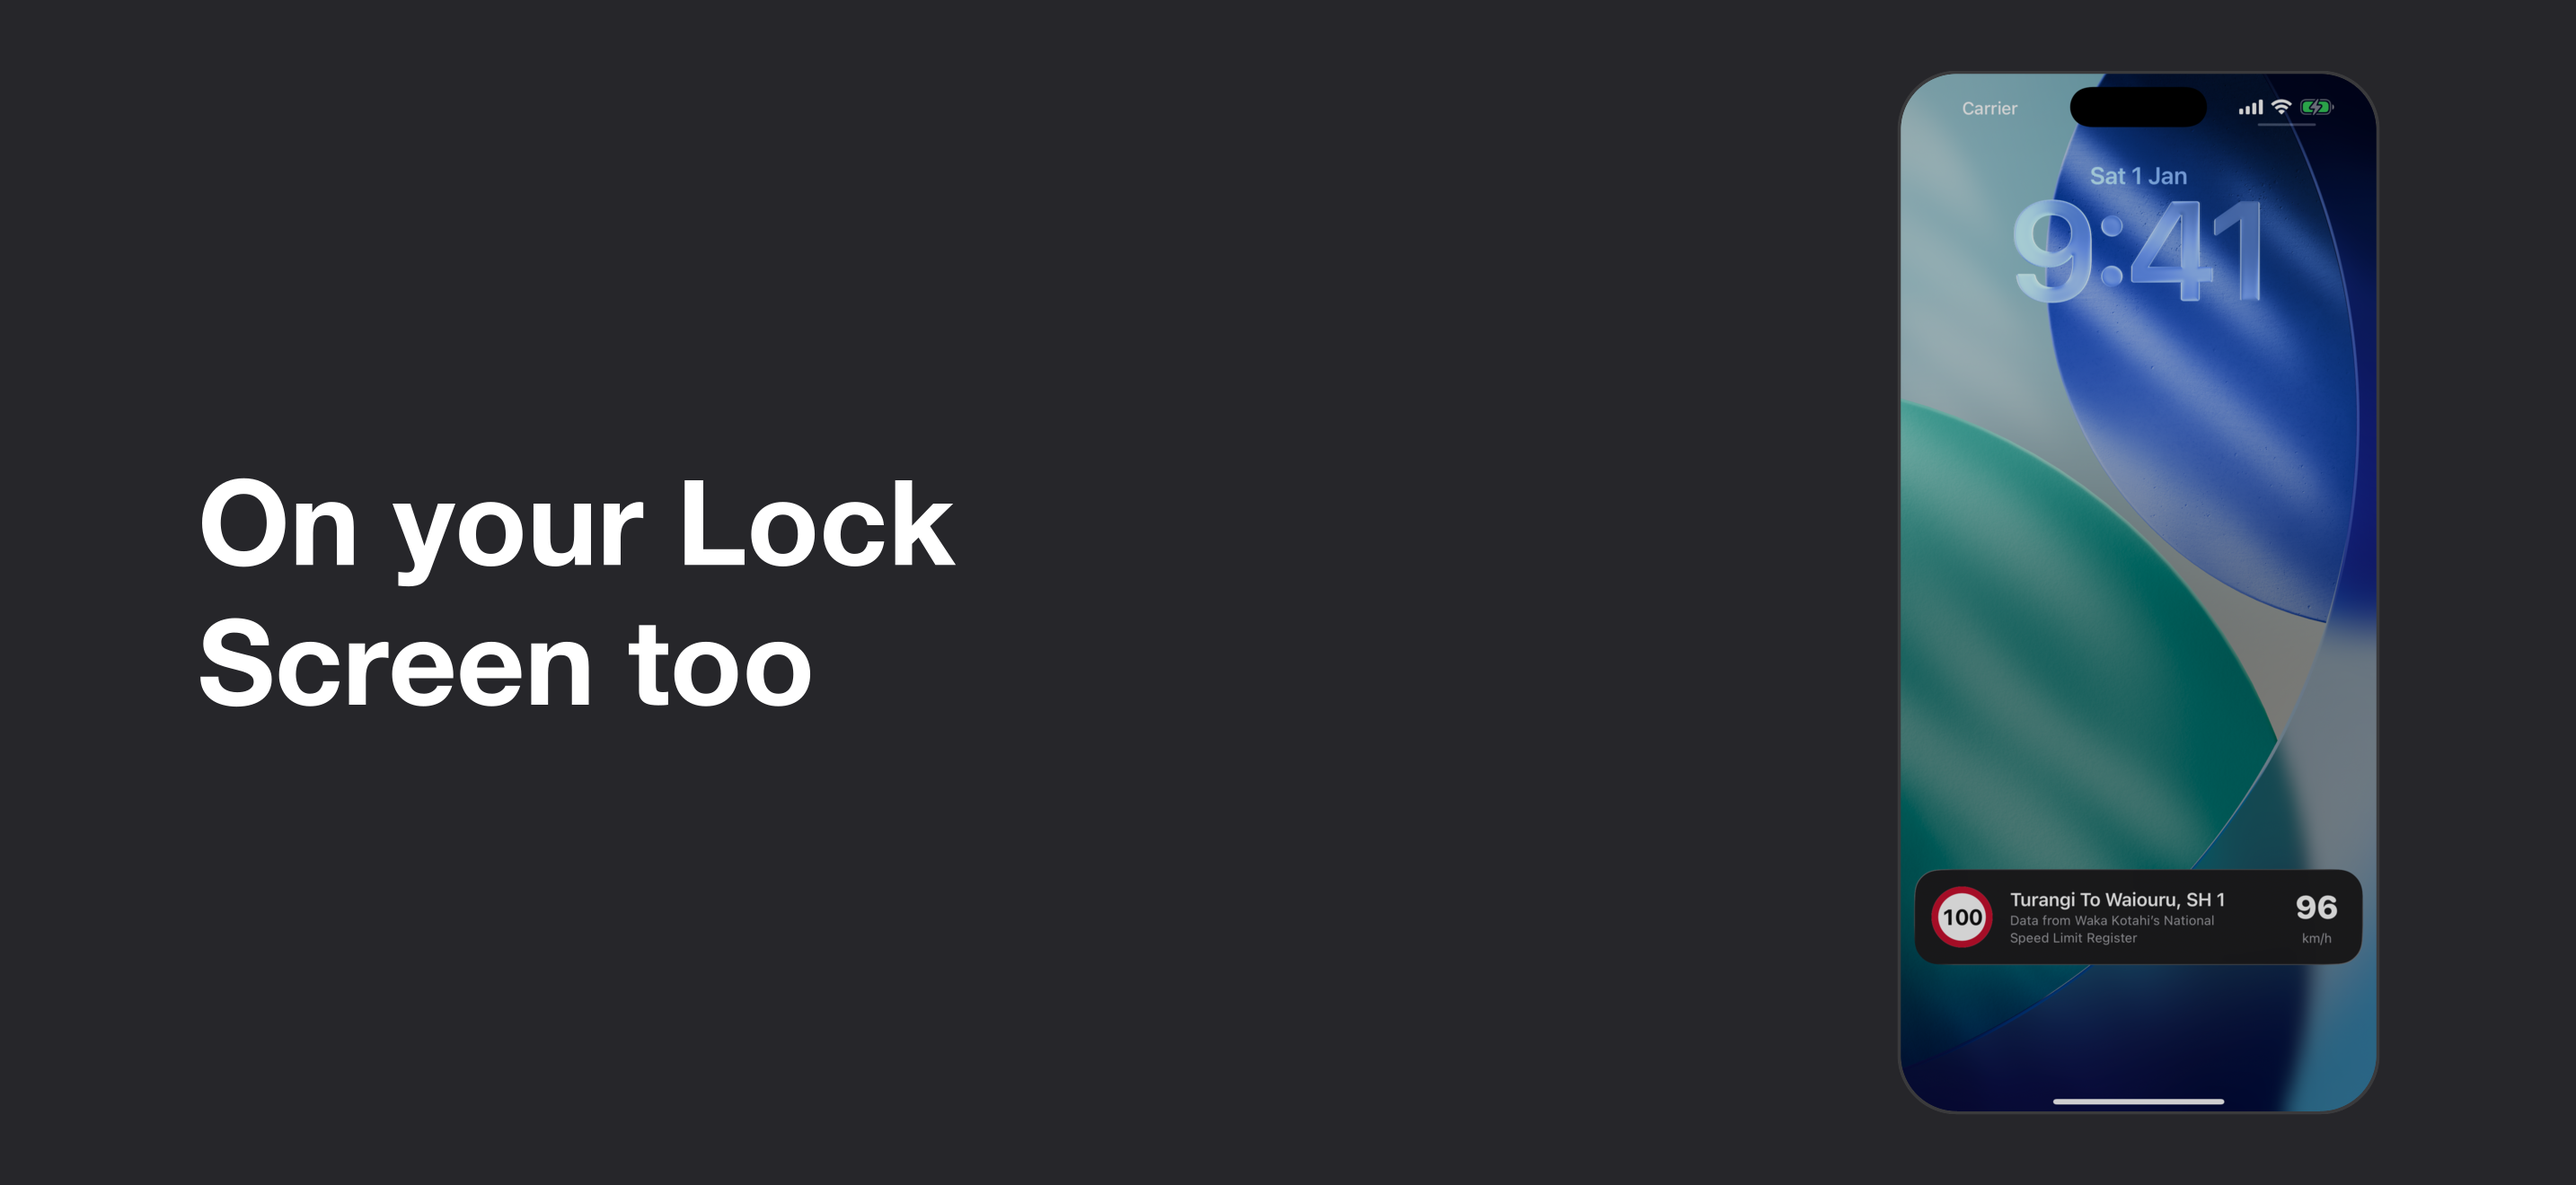
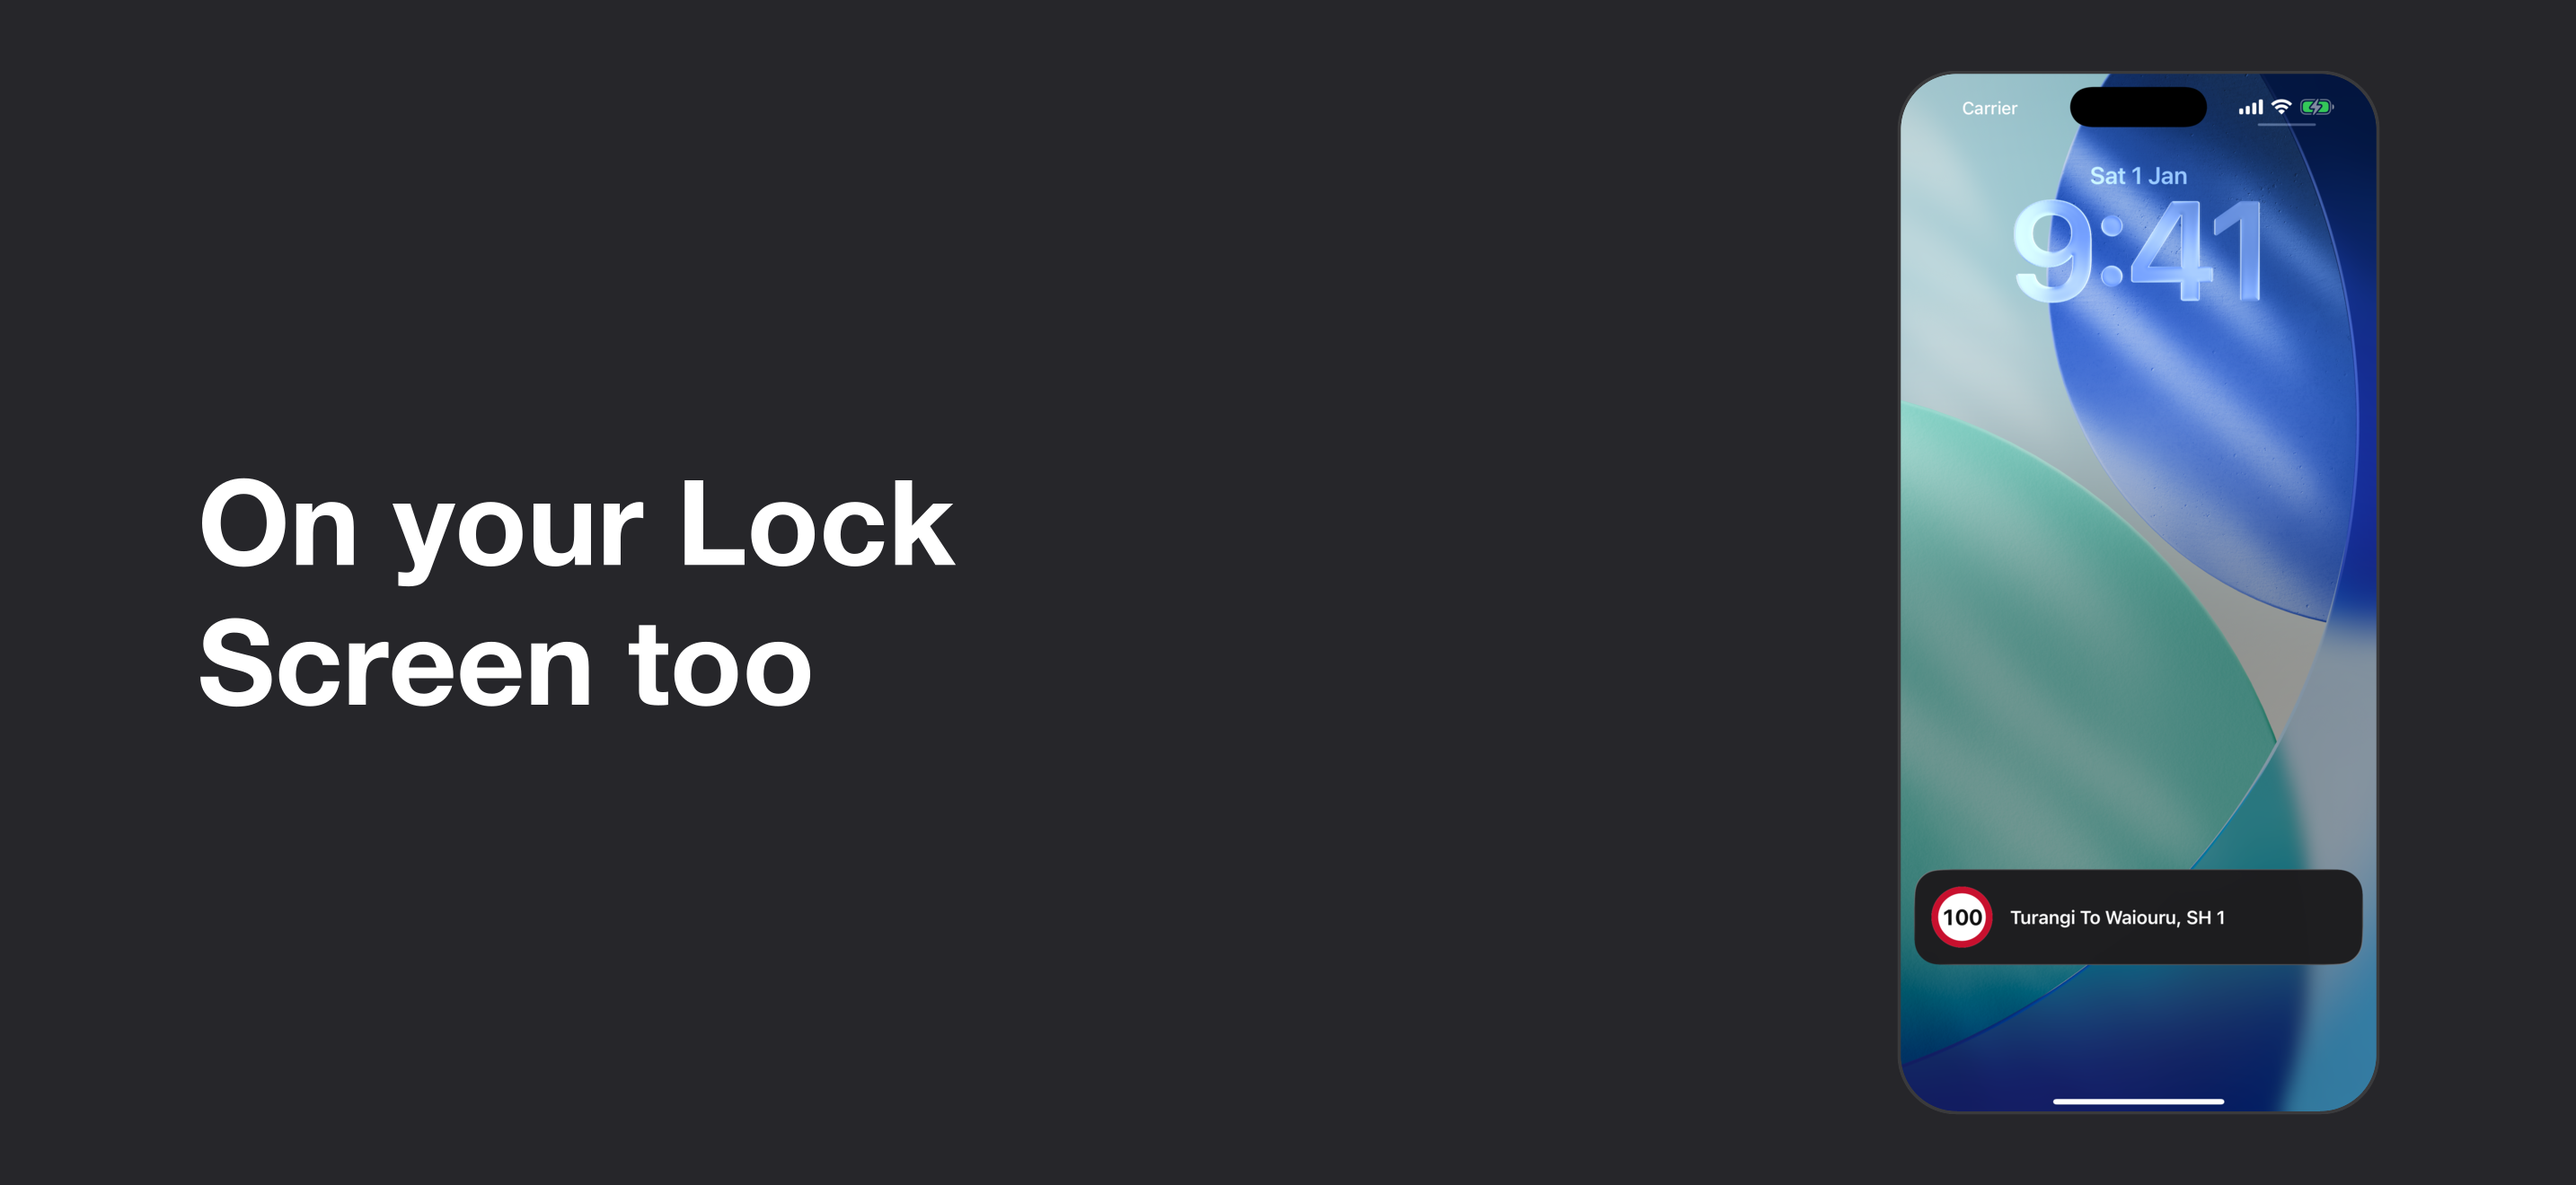
docs(ios): recapture the store screenshots
The Lock Screen card now shows the zone name, an empty circle on Horokiwi, and the seasonal line at Waipu Cove. Shots 01 to 04 and 06 stay the same scenes.

Changed region(s): [[0.7137, 0.0621, 0.931, 0.9629]]

diff --git a/iOS/AppStore/README.md b/iOS/AppStore/README.md
@@ -8,17 +8,19 @@ Raw captures for the listing, from the iOS 26.5 simulator on an iPhone 17 Pro Ma
 | `screenshots/6.9-inch/02-over-the-limit-104-in-100.png` | A realistic over-the-limit case: 104 km/h on a 100 km/h state highway (the Desert Road, SH 1), "+4 over" |
 | `screenshots/6.9-inch/03-drive-dark.png` | Dark mode, 26 km/h in the 30 zone |
 | `screenshots/6.9-inch/04-landscape-dark.png` | Landscape, 27 km/h in the 30 zone |
-| `screenshots/6.9-inch/05-lock-screen.png` | The Lock Screen Live Activity, 96 km/h on a 100 km/h state highway |
+| `screenshots/6.9-inch/05-lock-screen.png` | The Lock Screen card: the 100 sign and the zone name Turangi To Waiouru, SH 1. A permanent limit, so no second line |
+| `screenshots/6.9-inch/07-lock-screen-variable.png` | The same card on a variable limit: Horokiwi To Ngauranga, SH 2, an empty red circle, with "Variable limit, obey the posted signs" |
+| `screenshots/6.9-inch/08-lock-screen-seasonal.png` | The same card on a seasonal limit: Waipu Cove Road, 60, with "Seasonal limit, obey the posted signs". In force about late October to early April |
 | `screenshots/6.9-inch/06-welcome.png` | The first screen: what it does, offline, no account |
 
 ## Things to know
 
 - **Optics:** every shot is at or under the limit except 02, which is a small, realistic 4 km/h over. Keep it that way if you retake them.
-- **Data:** road names and limits are real, from a copy of the NZTA layer taken on 22 October 2026 while NZTA was rebuilding it, so coverage was not complete. Nothing shown is made up. Shots of the seasonal-limit label would need a made-up demo zone, so there are none here.
+- **Data:** road names and limits are real. Nothing shown is made up. The Lock Screen variable and seasonal shots use the register downloaded on 2 November 2026. Wellington Central is still 30 and Turangi To Waiouru is still 100, so the earlier drive shots stay. This copy has no emergency zone, so there is no temporary-limit shot. The seasonal shot only matches while that limit is in force, about late October to early April.
 - **Status bar:** 9:41, full signal, charging. The Lock Screen shot shows "Carrier" on the left because the simulator ignores the status bar override there.
 - **Retaking:** run `Tools/store-screenshots.sh` (needs Xcode, XcodeGen and an iPhone 17 Pro Max simulator, and downloads the register into `../data/register-check` the first time; `REFRESH=1` fetches it again). It builds the app, installs it on a clean simulator, drives simulated trips with `xcrun simctl location`, and turns the phone with a small UI test in `Tools/screenshots/rotate` because the Simulator's rotate shortcut can't be scripted. It takes a few minutes and rewrites 01 to 04 and 06.
-- **Lock Screen (05) is by hand.** `simctl` can't lock and wake the phone, so the script ends by starting the trip and printing the three steps. Keep the phone awake long enough to capture it.
-- **Framed versions:** `screenshots/6.9-inch-framed/` has the captioned slides, in `portrait/` (1320 × 2868, five slides) and `landscape/` (2868 × 1320, six). They are generated, not edited by hand: change a caption in `listing.md` and run `python3 -I Tools/frame-screenshots.py`, which needs ImageMagick, `rsvg-convert` and fontTools. The whole screen is shown, uncropped, so the register credit and "checked" line stay visible. The output is flattened RGB with no alpha, which the App Store requires.
+- **Lock Screen (05, 07, 08) is by hand.** `simctl` can't lock and wake the phone, so the script ends by starting the permanent trip and printing the routes for the variable and seasonal cards. Keep the phone awake long enough to capture each one.
+- **Framed versions:** `screenshots/6.9-inch-framed/` has the captioned slides, in `portrait/` (1320 × 2868, seven slides) and `landscape/` (2868 × 1320, eight). They are generated, not edited by hand: change a caption in `listing.md` and run `python3 -I Tools/frame-screenshots.py`, which needs ImageMagick, `rsvg-convert` and fontTools. The whole screen is shown, uncropped, so the register credit and "checked" line stay visible. The output is flattened RGB with no alpha, which the App Store requires.
 - **Not made:** an iPad set (the app is iPhone-only) and other languages.
 
 ## App Review demo video

diff --git a/iOS/AppStore/listing.md b/iOS/AppStore/listing.md
@@ -56,8 +56,8 @@ First release.
 
 Raw captures are in `screenshots/6.9-inch/` (see `README.md`). The app is iPhone-only, so there is no iPad set. Two framed sets are made from them by `Tools/frame-screenshots.py`, which reads this table:
 
-- `screenshots/6.9-inch-framed/portrait/` (1320 × 2868): five slides, the table below without row 4, which is a wide capture and doesn't suit a tall canvas.
-- `screenshots/6.9-inch-framed/landscape/` (2868 × 1320): all six slides, in the order below.
+- `screenshots/6.9-inch-framed/portrait/` (1320 × 2868): the table below without the landscape row, which is a wide capture and doesn't suit a tall canvas.
+- `screenshots/6.9-inch-framed/landscape/` (2868 × 1320): all slides, in the order below.
 
 Whether App Store Connect accepts both orientations in one set isn't confirmed, so they're kept apart. Upload the portrait set as the main one. Order and captions:
 
@@ -66,9 +66,11 @@ Whether App Store Connect accepts both orientations in one set isn't confirmed, 
 | 1 | `01-drive-light.png` | The limit for the road you're on |
 | 2 | `02-over-the-limit-104-in-100.png` | See at a glance if you've crept over the limit |
 | 3 | `05-lock-screen.png` | On your Lock Screen too |
-| 4 | `04-landscape-dark.png` | Fits a dash mount, either way up |
-| 5 | `03-drive-dark.png` | Easy on the eyes after dark |
-| 6 | `06-welcome.png` | Made in New Zealand. Set it up before you set off. |
+| 4 | `07-lock-screen-variable.png` | When the limit can change |
+| 5 | `08-lock-screen-seasonal.png` | When it only applies for the season |
+| 6 | `04-landscape-dark.png` | Fits a dash mount, either way up |
+| 7 | `03-drive-dark.png` | Easy on the eyes after dark |
+| 8 | `06-welcome.png` | Made in New Zealand. Set it up before you set off. |
 
 The first three appear before someone scrolls. They show the limit on your road, what happens when you go over, and the Lock Screen view.
 
